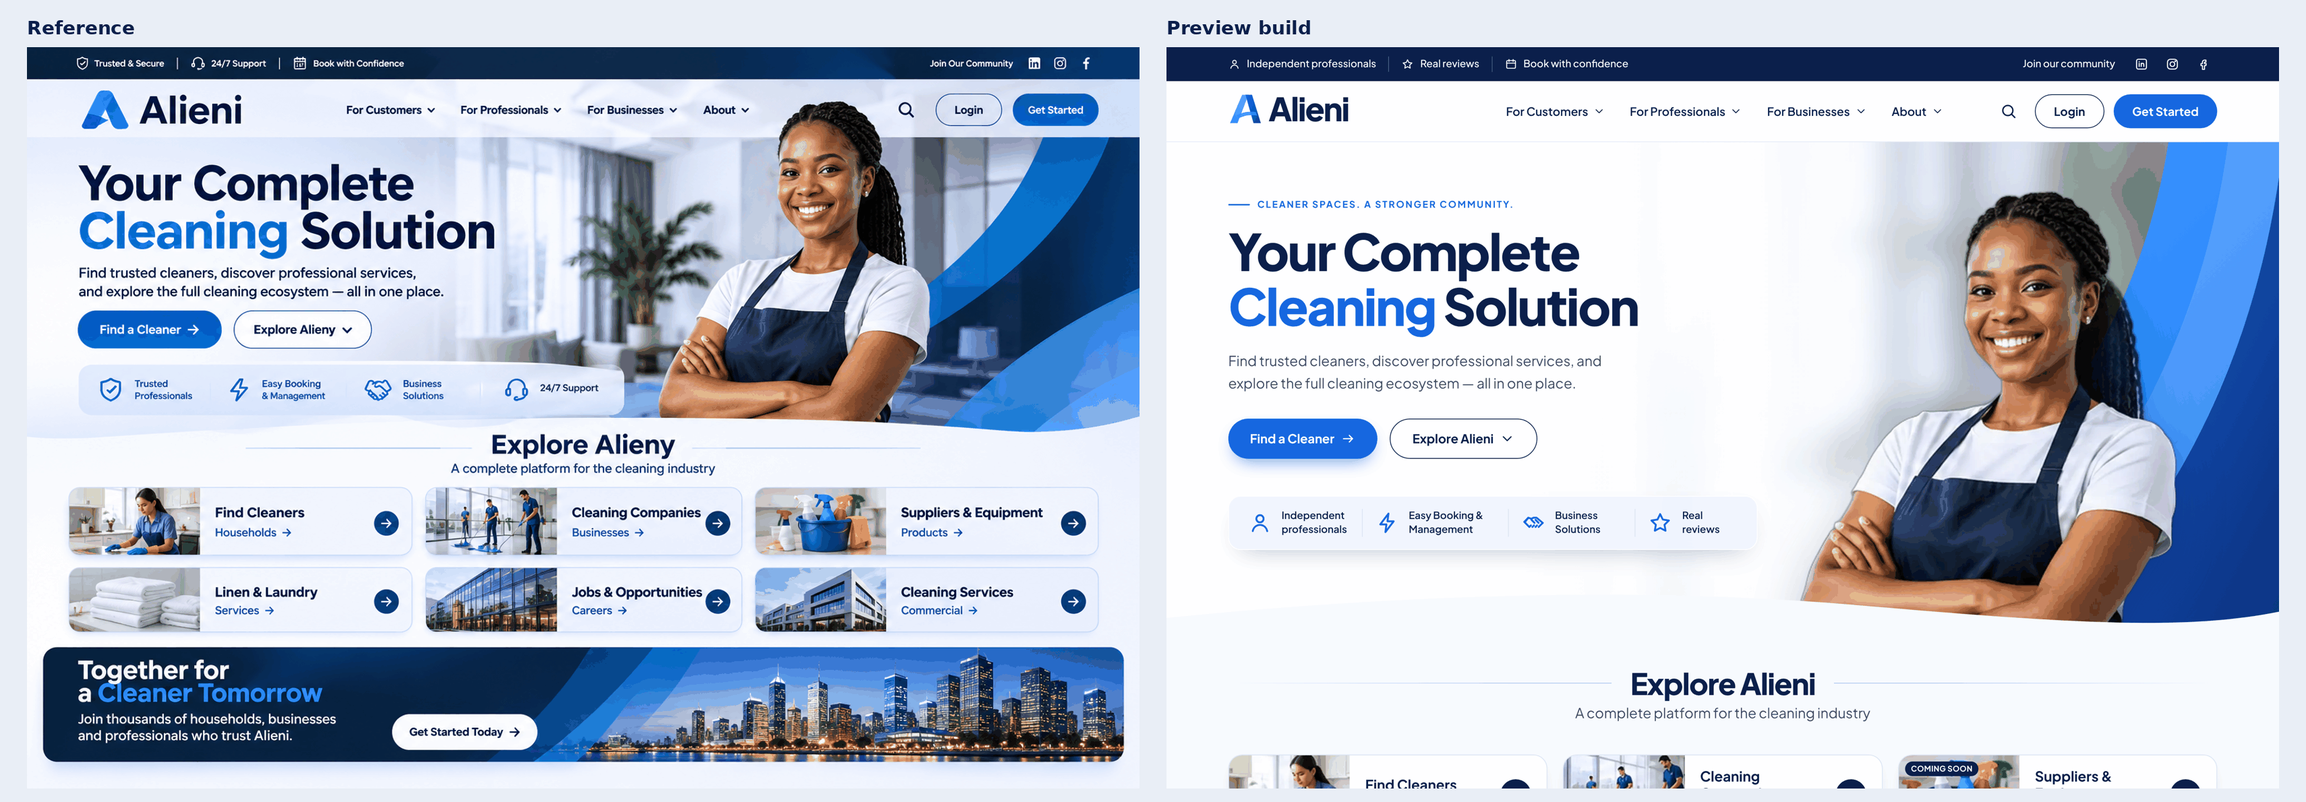
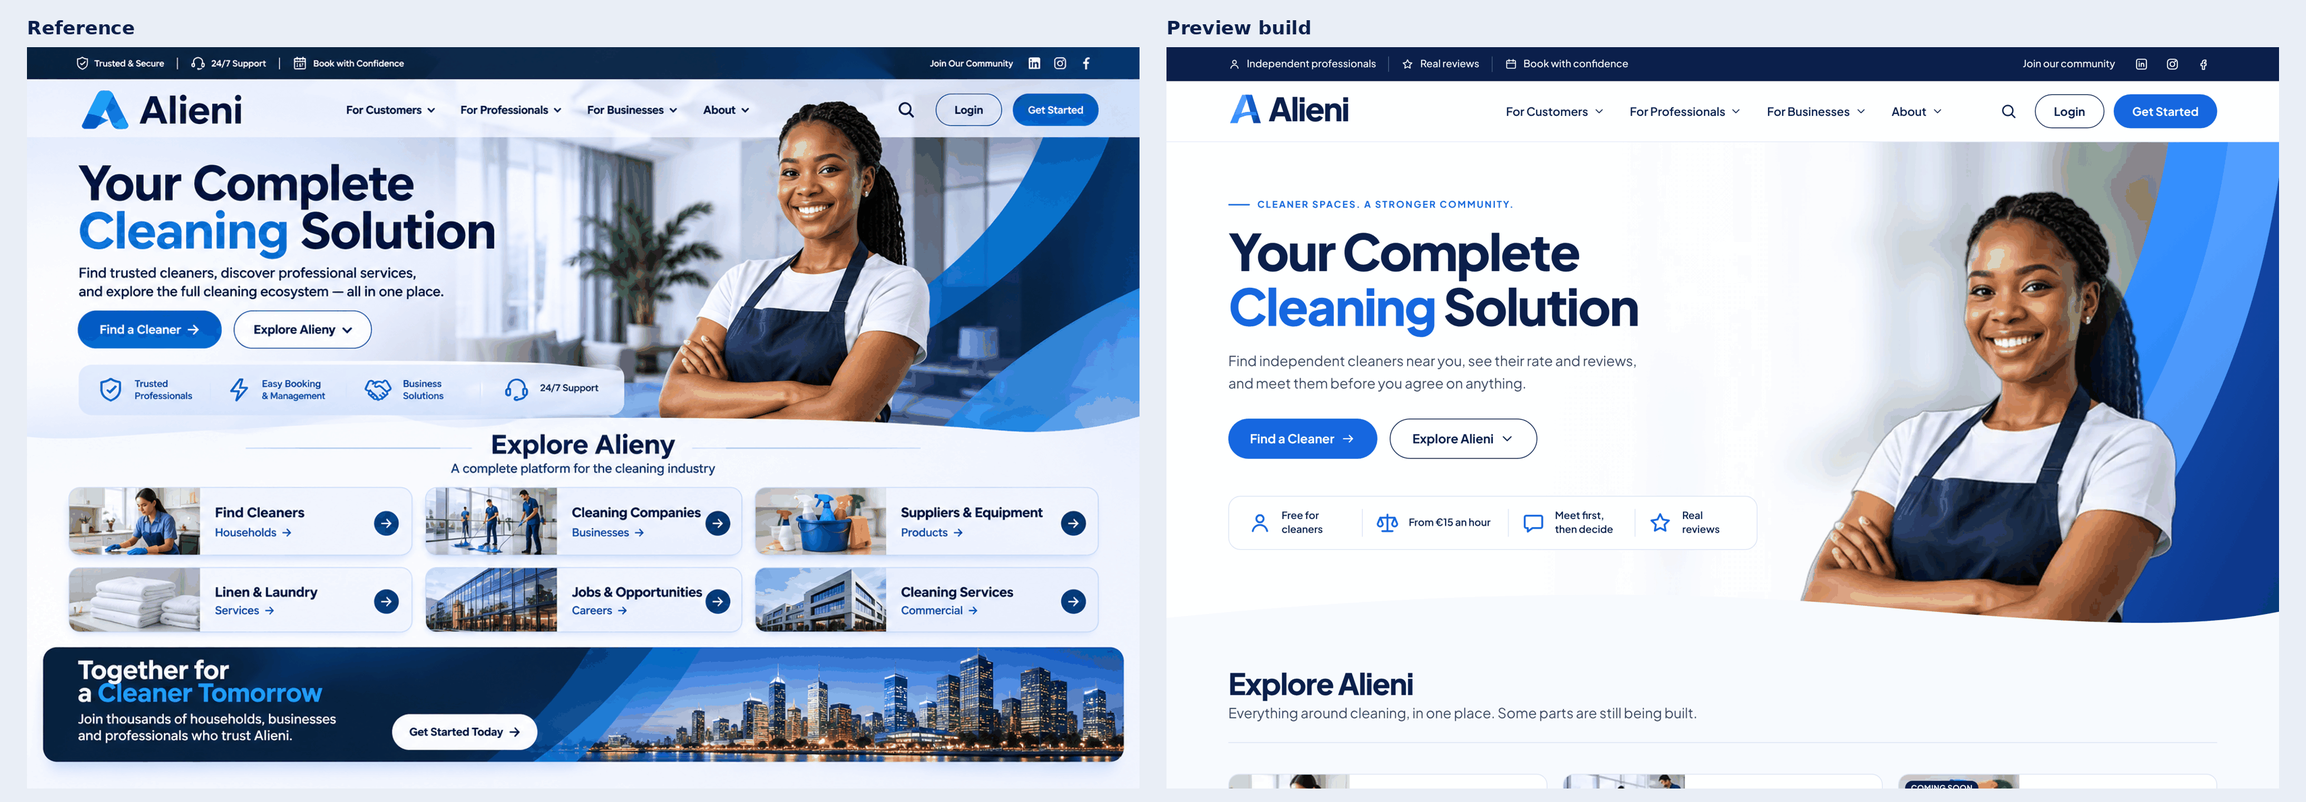
Design preview: remove AI-generated look from website copy and visuals
Concrete Alieni facts instead of slogans, no unverifiable 'trusted' claim,
fake skyline removed, fewer template patterns (glows, icon bubbles, eyebrows).

Claude-Session: https://claude.ai/code/session_01BEVQgS4FoumvuuSoyCbP8F

diff --git a/src/components/design-preview/DesktopHome.tsx b/src/components/design-preview/DesktopHome.tsx
@@ -73,7 +73,7 @@ function Hero({ c }: { c: PreviewCopy }) {
           </h1>
           <p className="mt-5 max-w-[34rem] text-lg leading-relaxed text-body">{c.hero.text}</p>
           <div className="mt-8 flex flex-wrap gap-4">
-            <a href="#" className="inline-flex min-h-[52px] items-center gap-2 rounded-full bg-royal px-7 text-base font-bold text-white shadow-[0_10px_24px_-10px_rgba(22,103,224,0.8)] hover:bg-royal-dark">
+            <a href="#" className="inline-flex min-h-[52px] items-center gap-2 rounded-full bg-royal px-7 text-base font-bold text-white  hover:bg-royal-dark">
               {c.hero.find} <Icon name="arrow" className="h-5 w-5" />
             </a>
             <a href="#explore" className="inline-flex min-h-[52px] items-center gap-2 rounded-full border-[1.5px] border-navy bg-white/70 px-7 text-base font-bold text-navy hover:bg-tint">
@@ -82,7 +82,7 @@ function Hero({ c }: { c: PreviewCopy }) {
           </div>
 
           {/* trust strip overlapping the hero's bottom-left */}
-          <ul className="mt-12 grid max-w-[52rem] grid-cols-[1fr_1.15fr_1fr_0.9fr] divide-x divide-edge rounded-2xl border border-white bg-tint/90 px-2 py-4 shadow-[0_14px_34px_-18px_rgba(11,31,75,0.35)] backdrop-blur">
+          <ul className="mt-12 grid max-w-[52rem] grid-cols-[1fr_1.15fr_1fr_0.9fr] divide-x divide-edge rounded-2xl border border-edge bg-white/95 px-2 py-4">
             {c.trust.map((t) => (
               <li key={t.t} className="flex items-center gap-3 px-4 text-[13px] font-semibold leading-snug text-navy">
                 <Icon name={t.icon as IconName} className="h-8 w-8 shrink-0 text-royal" />
@@ -101,7 +101,7 @@ function Hero({ c }: { c: PreviewCopy }) {
             height={DESIGN_IMAGES.heroCutout.height}
             priority
             sizes="(min-width: 1024px) 520px, 0px"
-            className="absolute bottom-0 right-[6%] h-auto w-[min(520px,92%)] drop-shadow-[0_20px_30px_rgba(11,31,75,0.25)]"
+            className="absolute bottom-0 right-[6%] h-auto w-[min(520px,92%)] "
           />
         </div>
       </div>
@@ -118,17 +118,17 @@ function Explore({ c }: { c: PreviewCopy }) {
   return (
     <section id="explore" className="bg-[#F7FAFE] pb-20 pt-10">
       <div className="mx-auto max-w-[1360px] px-6 lg:px-10">
-        <div className="flex items-center gap-6">
-          <span className="h-px flex-1 bg-gradient-to-r from-transparent to-royal/40" />
-          <h2 className="headline text-center text-[2.4rem] text-navy">{c.explore.title}</h2>
-          <span className="h-px flex-1 bg-gradient-to-l from-transparent to-royal/40" />
+        <div className="flex flex-wrap items-end justify-between gap-4 border-b border-edge pb-6">
+          <div>
+            <h2 className="headline text-[2.4rem] text-navy">{c.explore.title}</h2>
+            <p className="mt-1 text-lg text-body">{c.explore.subtitle}</p>
+          </div>
         </div>
-        <p className="mt-1 text-center text-lg text-body">{c.explore.subtitle}</p>
 
         <ul className="mt-10 grid gap-5 md:grid-cols-2 xl:grid-cols-3">
           {c.explore.cards.map((card) => (
             <li key={card.t}>
-              <a href="#" className="group flex h-[104px] items-center overflow-hidden rounded-[18px] border border-edge bg-white shadow-[0_8px_24px_-16px_rgba(11,31,75,0.35)] transition-shadow hover:shadow-[0_14px_30px_-14px_rgba(11,31,75,0.4)]">
+              <a href="#" className="group flex h-[104px] items-center overflow-hidden rounded-[14px] border border-edge bg-white transition-colors hover:border-royal">
                 <div className="relative h-full w-[38%] shrink-0">
                   <DesignImage name={card.img as DesignImageKey} alt="" fill sizes="200px" className="object-cover" />
                   {card.soon ? <SoonBadge label={c.soon} className="absolute left-2 top-2" /> : null}
@@ -156,23 +156,19 @@ function Why({ c }: { c: PreviewCopy }) {
     <section className="bg-white py-20">
       <div className="mx-auto grid max-w-[1360px] items-start gap-12 px-6 lg:grid-cols-[1fr_2fr] lg:px-10">
         <div>
-          <p className="eyebrow text-royal">{c.why.eyebrow}</p>
-          <h2 className="headline mt-3 text-[2.6rem] text-navy">
+          <h2 className="headline text-[2.6rem] text-navy">
             {c.why.pre} <span className="text-royal">{c.why.accent}</span>
           </h2>
           <p className="mt-4 max-w-sm text-lg text-body">{c.why.text}</p>
         </div>
-        <ul className="grid gap-5 sm:grid-cols-2 xl:grid-cols-4">
+        <dl className="grid gap-x-12 sm:grid-cols-2">
           {c.why.items.map((i) => (
-            <li key={i.t} className="rounded-[18px] border border-edge bg-tint/60 p-6">
-              <span className="flex h-12 w-12 items-center justify-center rounded-full bg-white text-royal shadow-sm">
-                <Icon name={i.icon as IconName} className="h-6 w-6" />
-              </span>
-              <h3 className="mt-4 text-base font-bold leading-snug text-navy">{i.t}</h3>
-              <p className="mt-2 text-sm leading-relaxed text-body">{i.d}</p>
-            </li>
+            <div key={i.t} className="border-t-2 border-navy py-6">
+              <dt className="text-xl font-extrabold leading-snug tracking-[-0.01em] text-navy">{i.t}</dt>
+              <dd className="mt-2 text-[15px] leading-relaxed text-body">{i.d}</dd>
+            </div>
           ))}
-        </ul>
+        </dl>
       </div>
     </section>
   );
@@ -188,17 +184,14 @@ function BusinessAndCommunity({ c }: { c: PreviewCopy }) {
       <div className="mx-auto grid max-w-[1360px] gap-6 px-6 lg:grid-cols-2 lg:px-10">
         {blocks.map(({ b, dark }) => (
           <div key={b.title} className={`relative overflow-hidden rounded-[22px] p-10 ${dark ? "bg-navy text-white" : "border border-edge bg-white text-navy"}`}>
-            {dark ? <HeroSwoosh variant="dark" className="absolute -right-10 top-0 h-full w-1/3 opacity-60" /> : null}
             <div className="relative">
-              <p className={`eyebrow ${dark ? "text-bright" : "text-royal"}`}>{b.eyebrow}</p>
-              <h2 className="headline mt-3 max-w-md text-[2rem]">{b.title}</h2>
+              <p className={`text-sm font-bold ${dark ? "text-bright" : "text-royal"}`}>{b.eyebrow}</p>
+              <h2 className="headline mt-2 max-w-md text-[2rem]">{b.title}</h2>
               <p className={`mt-3 max-w-md ${dark ? "text-white/80" : "text-body"}`}>{b.text}</p>
               <ul className="mt-6 space-y-3">
                 {b.points.map((p) => (
                   <li key={p} className="flex items-center gap-3 font-semibold">
-                    <span className={`flex h-7 w-7 items-center justify-center rounded-full ${dark ? "bg-royal text-white" : "bg-tint text-royal"}`}>
-                      <Icon name="check" className="h-4 w-4" />
-                    </span>
+                    <Icon name="check" className={`h-5 w-5 shrink-0 ${dark ? "text-bright" : "text-royal"}`} />
                     {p}
                   </li>
                 ))}
@@ -219,12 +212,7 @@ function Banner({ c }: { c: PreviewCopy }) {
     <section className="bg-[#F7FAFE] pb-20">
       <div className="mx-auto max-w-[1360px] px-6 lg:px-10">
         <div className="relative flex min-h-[200px] items-center overflow-hidden rounded-[22px] bg-navy">
-          <div className="absolute inset-y-0 right-0 w-[56%]">
-            <DesignImage name="skyline" alt="" fill sizes="60vw" className="object-cover object-right" />
-            <div className="absolute inset-0 bg-gradient-to-r from-navy via-navy/30 to-transparent" />
-          </div>
-          <HeroSwoosh variant="dark" className="absolute left-[38%] top-0 h-full w-[18%] -scale-x-100 opacity-70" />
-          <div className="relative flex w-full flex-wrap items-center justify-between gap-6 px-12 py-10 lg:w-[62%]">
+          <div className="relative flex w-full flex-wrap items-center justify-between gap-6 px-12 py-12">
             <div>
               <h2 className="headline text-[2.3rem] text-white">
                 {c.banner.pre}

diff --git a/src/components/design-preview/copy.ts b/src/components/design-preview/copy.ts
@@ -46,15 +46,15 @@ export const en = {
     pre: "Your Complete",
     accent: "Cleaning",
     post: "Solution",
-    text: "Find trusted cleaners, discover professional services, and explore the full cleaning ecosystem — all in one place.",
+    text: "Find independent cleaners near you, see their rate and reviews, and meet them before you agree on anything.",
     find: "Find a Cleaner",
     explore: "Explore Alieni",
     video: "Watch Video",
   },
   trust: [
-    { icon: "person", t: "Independent professionals" },
-    { icon: "bolt", t: "Easy Booking & Management" },
-    { icon: "handshake", t: "Business Solutions" },
+    { icon: "person", t: "Free for cleaners" },
+    { icon: "scale", t: "From €15 an hour" },
+    { icon: "chat", t: "Meet first, then decide" },
     { icon: "star", t: "Real reviews" },
   ],
   searchBar: { placeholder: "Search for cleaners, services or businesses…", button: "Search", label: "Search Alieni" },
@@ -69,7 +69,7 @@ export const en = {
   soon: "Coming soon",
   explore: {
     title: "Explore Alieni",
-    subtitle: "A complete platform for the cleaning industry",
+    subtitle: "Everything around cleaning, in one place. Some parts are still being built.",
     mobileEyebrow: "Explore Alieni",
     mobileTitle: "A complete ecosystem for the cleaning industry",
     cards: [
@@ -84,20 +84,20 @@ export const en = {
   about: {
     eyebrow: "About Alieni",
     title: "More than just a cleaning platform",
-    text: "Alieni connects households, businesses and professionals within the cleaning industry — creating opportunities, simplifying access and building a cleaner, healthier community.",
+    text: "Alieni is a Dutch marketplace for cleaning. Households and businesses find independent cleaners directly. Cleaners set their own rate and keep all of it — we never take a cut of anyone's wage.",
     cta: "Learn More",
   },
   why: {
     eyebrow: "Why choose Alieni?",
     pre: "Simple. Convenient.",
     accent: "Fair.",
-    text: "A smarter way to find services, grow your business and be part of the cleaning industry.",
+    text: "No agency in between, no small print. This is how it works.",
     cta: "Get Started Today",
     items: [
-      { icon: "person", t: "Independent professionals", d: "Cleaners set their own rates and hours." },
-      { icon: "bolt", t: "Easy Booking & Management", d: "Messages, meetings and agreements in one place." },
-      { icon: "users", t: "Business Opportunities", d: "Work for cleaners, cover for businesses." },
-      { icon: "star", t: "Real reviews", d: "Only from people who actually met." },
+      { icon: "person", t: "Cleaners pay nothing", d: "Placing an ad is free. Cleaners keep 100% of their rate." },
+      { icon: "chat", t: "Meet before you agree", d: "Phone numbers stay hidden in the chat until you both confirm." },
+      { icon: "calendar", t: "€14.95 a month — only after a deal", d: "Households pay once both sides confirm. Cancel any month." },
+      { icon: "shield", t: "We don't store addresses", d: "No home addresses, no bank details. Postcode searches aren't saved." },
     ],
   },
   biz: {
@@ -115,7 +115,7 @@ export const en = {
     points: ["Free for cleaners, always", "You keep 100% of what you earn", "You decide who you work for"],
     cta: "Place your ad",
   },
-  banner: { pre: "Together for a", accent: "Cleaner Tomorrow", text: "Join households, businesses and professionals across the Netherlands.", cta: "Get Started Today" },
+  banner: { pre: "Cleaning sorted,", accent: "no middleman.", text: "Join households, businesses and professionals across the Netherlands.", cta: "Get Started Today" },
   footer: {
     about: "Alieni connects households and businesses with independent cleaners in the Netherlands.",
     cols: [
@@ -171,15 +171,15 @@ export const nl: PreviewCopy = {
     pre: "Jouw complete",
     accent: "schoonmaak",
     post: "oplossing",
-    text: "Vind schoonmakers, ontdek professionele diensten en verken de hele schoonmaakwereld — alles op één plek.",
+    text: "Vind zelfstandige schoonmakers bij jou in de buurt, zie hun tarief en reviews, en maak eerst kennis voordat je iets afspreekt.",
     find: "Vind een schoonmaker",
     explore: "Ontdek Alieni",
     video: "Bekijk video",
   },
   trust: [
-    { icon: "person", t: "Zelfstandige professionals" },
-    { icon: "bolt", t: "Makkelijk boeken & beheren" },
-    { icon: "handshake", t: "Zakelijke oplossingen" },
+    { icon: "person", t: "Gratis voor schoonmakers" },
+    { icon: "scale", t: "Vanaf €15 per uur" },
+    { icon: "chat", t: "Eerst kennismaken" },
     { icon: "star", t: "Echte reviews" },
   ],
   searchBar: { placeholder: "Zoek schoonmakers, diensten of bedrijven…", button: "Zoeken", label: "Zoeken op Alieni" },
@@ -194,7 +194,7 @@ export const nl: PreviewCopy = {
   soon: "Binnenkort",
   explore: {
     title: "Ontdek Alieni",
-    subtitle: "Een compleet platform voor de schoonmaakbranche",
+    subtitle: "Alles rond schoonmaak op één plek. Een deel bouwen we nog.",
     mobileEyebrow: "Ontdek Alieni",
     mobileTitle: "Een compleet ecosysteem voor de schoonmaakbranche",
     cards: [
@@ -209,20 +209,20 @@ export const nl: PreviewCopy = {
   about: {
     eyebrow: "Over Alieni",
     title: "Meer dan een schoonmaakplatform",
-    text: "Alieni verbindt huishoudens, bedrijven en professionals in de schoonmaakbranche — we creëren kansen, maken toegang eenvoudig en bouwen aan een schonere, gezondere community.",
+    text: "Alieni is een Nederlandse marktplaats voor schoonmaak. Huishoudens en bedrijven vinden direct een zelfstandige schoonmaker. Schoonmakers bepalen zelf hun tarief en houden dat helemaal — wij houden niets in op iemands loon.",
     cta: "Meer weten",
   },
   why: {
     eyebrow: "Waarom Alieni?",
     pre: "Eenvoudig. Handig.",
     accent: "Eerlijk.",
-    text: "Een slimmere manier om diensten te vinden, je bedrijf te laten groeien en deel uit te maken van de schoonmaakbranche.",
+    text: "Geen bureau ertussen, geen kleine lettertjes. Zo werkt het.",
     cta: "Begin vandaag",
     items: [
-      { icon: "person", t: "Zelfstandige professionals", d: "Schoonmakers bepalen zelf tarief en uren." },
-      { icon: "bolt", t: "Makkelijk boeken & beheren", d: "Berichten, afspraken en kennismakingen op één plek." },
-      { icon: "users", t: "Zakelijke kansen", d: "Werk voor schoonmakers, vervanging voor bedrijven." },
-      { icon: "star", t: "Echte reviews", d: "Alleen van mensen die elkaar echt ontmoet hebben." },
+      { icon: "person", t: "Schoonmakers betalen niets", d: "Een advertentie plaatsen is gratis. Je houdt 100% van je tarief." },
+      { icon: "chat", t: "Eerst kennismaken", d: "Telefoonnummers blijven verborgen in de chat tot jullie allebei bevestigen." },
+      { icon: "calendar", t: "€14,95 per maand — pas na een afspraak", d: "Huishoudens betalen pas als beide kanten bevestigen. Maandelijks opzegbaar." },
+      { icon: "shield", t: "Wij bewaren geen adressen", d: "Geen huisadressen, geen bankgegevens. Zoekopdrachten op postcode worden niet opgeslagen." },
     ],
   },
   biz: {
@@ -240,7 +240,7 @@ export const nl: PreviewCopy = {
     points: ["Altijd gratis voor schoonmakers", "Je houdt 100% van wat je verdient", "Jij bepaalt voor wie je werkt"],
     cta: "Plaats je advertentie",
   },
-  banner: { pre: "Samen voor een", accent: "schonere toekomst", text: "Sluit je aan bij huishoudens, bedrijven en professionals in heel Nederland.", cta: "Begin vandaag" },
+  banner: { pre: "Schoonmaak geregeld,", accent: "zonder tussenpersoon.", text: "Sluit je aan bij huishoudens, bedrijven en professionals in heel Nederland.", cta: "Begin vandaag" },
   footer: {
     about: "Alieni verbindt huishoudens en bedrijven met zelfstandige schoonmakers in Nederland.",
     cols: [

diff --git a/src/components/design-preview/MobileWebHome.tsx b/src/components/design-preview/MobileWebHome.tsx
@@ -57,7 +57,7 @@ function Hero({ c, showVideo }: { c: PreviewCopy; showVideo: boolean }) {
         </h1>
         <p className="mt-4 max-w-[56%] text-[14px] leading-relaxed text-white/90 [text-shadow:0_1px_10px_rgba(7,22,56,0.8)]">{c.hero.text}</p>
         <div className="mt-6 flex flex-wrap items-center gap-4">
-          <a href="#" className="inline-flex min-h-12 items-center gap-2 rounded-full bg-royal px-6 text-[15px] font-bold shadow-[0_10px_24px_-10px_rgba(46,139,255,0.9)]">
+          <a href="#" className="inline-flex min-h-12 items-center gap-2 rounded-full bg-royal px-6 text-[15px] font-bold">
             {c.hero.find} <Icon name="arrow" className="h-5 w-5" />
           </a>
           {showVideo ? (
@@ -126,25 +126,20 @@ function About({ c }: { c: PreviewCopy }) {
 function Why({ c }: { c: PreviewCopy }) {
   return (
     <section className="mt-8 px-4">
-      <div className="relative overflow-hidden rounded-[22px] bg-navy px-5 pb-28 pt-6 text-white">
-        <div className="absolute inset-x-0 bottom-0 h-28">
-          <DesignImage name="skyline" alt="" fill sizes="100vw" className="object-cover object-bottom" />
-          <div className="absolute inset-0 bg-gradient-to-b from-navy via-navy/30 to-transparent" />
-        </div>
+      <div className="relative overflow-hidden rounded-[22px] bg-navy px-5 pb-6 pt-6 text-white">
         <div className="relative">
-          <p className="eyebrow text-[11px] text-white/85">{c.why.eyebrow}</p>
-          <h2 className="headline mt-2 text-[1.85rem]">
+          <h2 className="headline text-[1.85rem]">
             {c.why.pre} <span className="text-bright">{c.why.accent}</span>
           </h2>
           <p className="mt-2 text-sm leading-relaxed text-white/85">{c.why.text}</p>
-          <ul className="mt-5 grid grid-cols-2 gap-px overflow-hidden rounded-2xl bg-white/10">
+          <dl className="mt-4 divide-y divide-white/15">
             {c.why.items.map((i) => (
-              <li key={i.t} className="flex flex-col items-center gap-2 bg-navy px-2 py-4 text-center text-[13px] font-semibold leading-snug">
-                <Icon name={i.icon as IconName} className="h-8 w-8 text-bright" />
-                {i.t}
-              </li>
+              <div key={i.t} className="py-3.5">
+                <dt className="font-bold leading-snug">{i.t}</dt>
+                <dd className="mt-1 text-[13px] leading-relaxed text-white/75">{i.d}</dd>
+              </div>
             ))}
-          </ul>
+          </dl>
           <a href="#" className="mt-5 inline-flex min-h-12 items-center gap-2 rounded-full bg-white px-6 text-[15px] font-bold text-navy">
             {c.why.cta} <Icon name="arrow" className="h-5 w-5" />
           </a>
@@ -157,16 +152,12 @@ function Why({ c }: { c: PreviewCopy }) {
 function Explore({ c }: { c: PreviewCopy }) {
   return (
     <section className="mt-12 px-4">
-      <div className="flex items-center justify-center gap-4">
-        <span className="h-0.5 w-8 rounded bg-royal" />
-        <p className="text-sm font-bold uppercase tracking-[0.18em] text-navy">{c.explore.mobileEyebrow}</p>
-        <span className="h-0.5 w-8 rounded bg-royal" />
-      </div>
-      <h2 className="headline mt-2 text-center text-[1.45rem] leading-tight">{c.explore.mobileTitle}</h2>
+      <p className="text-sm font-bold text-royal">{c.explore.mobileEyebrow}</p>
+      <h2 className="headline mt-1 text-[1.45rem] leading-tight">{c.explore.mobileTitle}</h2>
       <ul className="mt-6 grid grid-cols-2 gap-3">
         {c.explore.cards.map((card) => (
           <li key={card.t}>
-            <a href="#" className="group block overflow-hidden rounded-2xl border border-edge bg-white shadow-[0_8px_20px_-16px_rgba(11,31,75,0.4)]">
+            <a href="#" className="group block overflow-hidden rounded-2xl border border-edge bg-white">
               <div className="relative aspect-[2/1]">
                 <DesignImage name={card.img as DesignImageKey} alt="" fill sizes="45vw" className="object-cover" />
                 {card.soon ? <SoonBadge label={c.soon} className="absolute left-2 top-2" /> : null}
@@ -194,7 +185,7 @@ function Business({ c }: { c: PreviewCopy }) {
           <span className="flex h-12 w-12 items-center justify-center rounded-full bg-tint text-royal">
             <Icon name="building" className="h-6 w-6" />
           </span>
-          <p className="eyebrow text-[11px] text-royal before:hidden">{c.biz.eyebrow}</p>
+          <p className="text-sm font-bold text-royal">{c.biz.eyebrow}</p>
         </div>
         <h2 className="headline mt-3 text-[1.45rem] leading-tight">{c.biz.title}</h2>
         <p className="mt-2 text-sm leading-relaxed text-body">{c.biz.mobileText}</p>

diff --git a/src/lib/design-images.ts b/src/lib/design-images.ts
@@ -7,7 +7,6 @@ export const DESIGN_IMAGES = {
   heroCutout: { src: "/img/design/hero-cleaner-cutout.webp", width: 800, height: 896 },
   heroInterior: { src: "/img/design/hero-interior.webp", width: 900, height: 1341 },
   aboutLiving: { src: "/img/design/about-living.webp", width: 600, height: 660 },
-  skyline: { src: "/img/design/skyline.webp", width: 1206, height: 288 },
   catFindCleaners: { src: "/img/design/cat-find-cleaners.webp", width: 348, height: 174 },
   catCompanies: { src: "/img/design/cat-companies.webp", width: 350, height: 174 },
   catSuppliers: { src: "/img/design/cat-suppliers.webp", width: 350, height: 174 },

diff --git a/design-review/README.md b/design-review/README.md
@@ -8,3 +8,19 @@ Live previews (dev only, 404 in production unless `DESIGN_PREVIEW=1`, noindex):
 - `/en/design-preview/desktop`, `/en/design-preview/mobile-web` (EN)
 
 The mobile app (design 3) is out of scope for now.
+
+## Removing the "made by AI" look (round 2)
+
+Done in the preview:
+- Copy uses real Alieni facts (from the build tracker) instead of slogans:
+  free for cleaners, from €15/hour, €14.95/month only after a deal,
+  contact details hidden until both confirm, no addresses stored.
+- "Find trusted cleaners" → "independent cleaners" (we don't verify).
+- Fake night-city skyline removed (not a Dutch city, obviously generated).
+- "Together for a Cleaner Tomorrow" → "Cleaning sorted, no middleman."
+- Fewer template tells: no glowing buttons, no icon-in-a-bubble grids,
+  fewer eyebrow labels, left-aligned headings, borders instead of soft shadows.
+
+Still AI-generated (needs real photos — build tracker item D2):
+- Hero cleaner cut-out, About photo, the six category photos.
+  Swap them in `src/lib/design-images.ts` or via Admin → Foto's.
